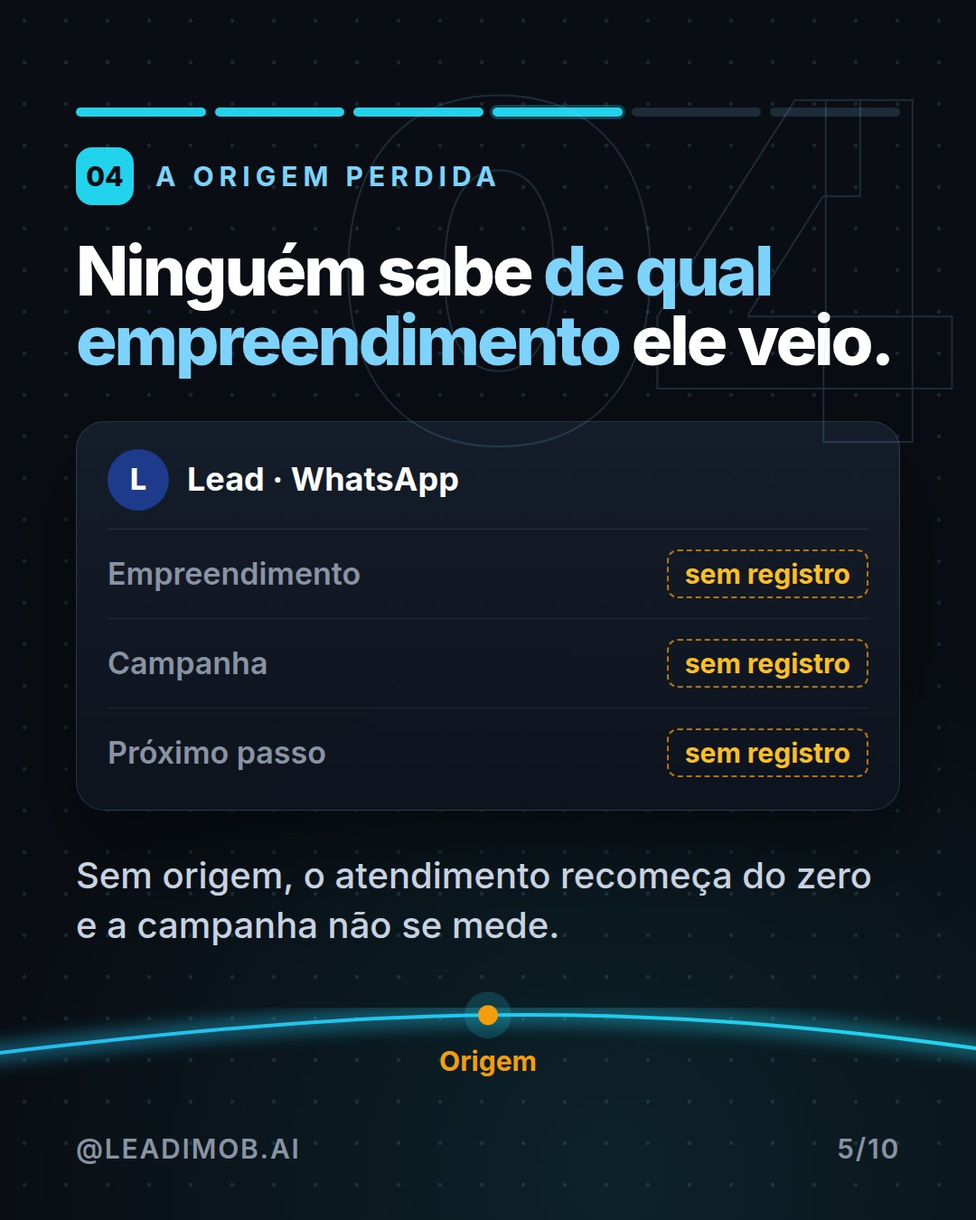
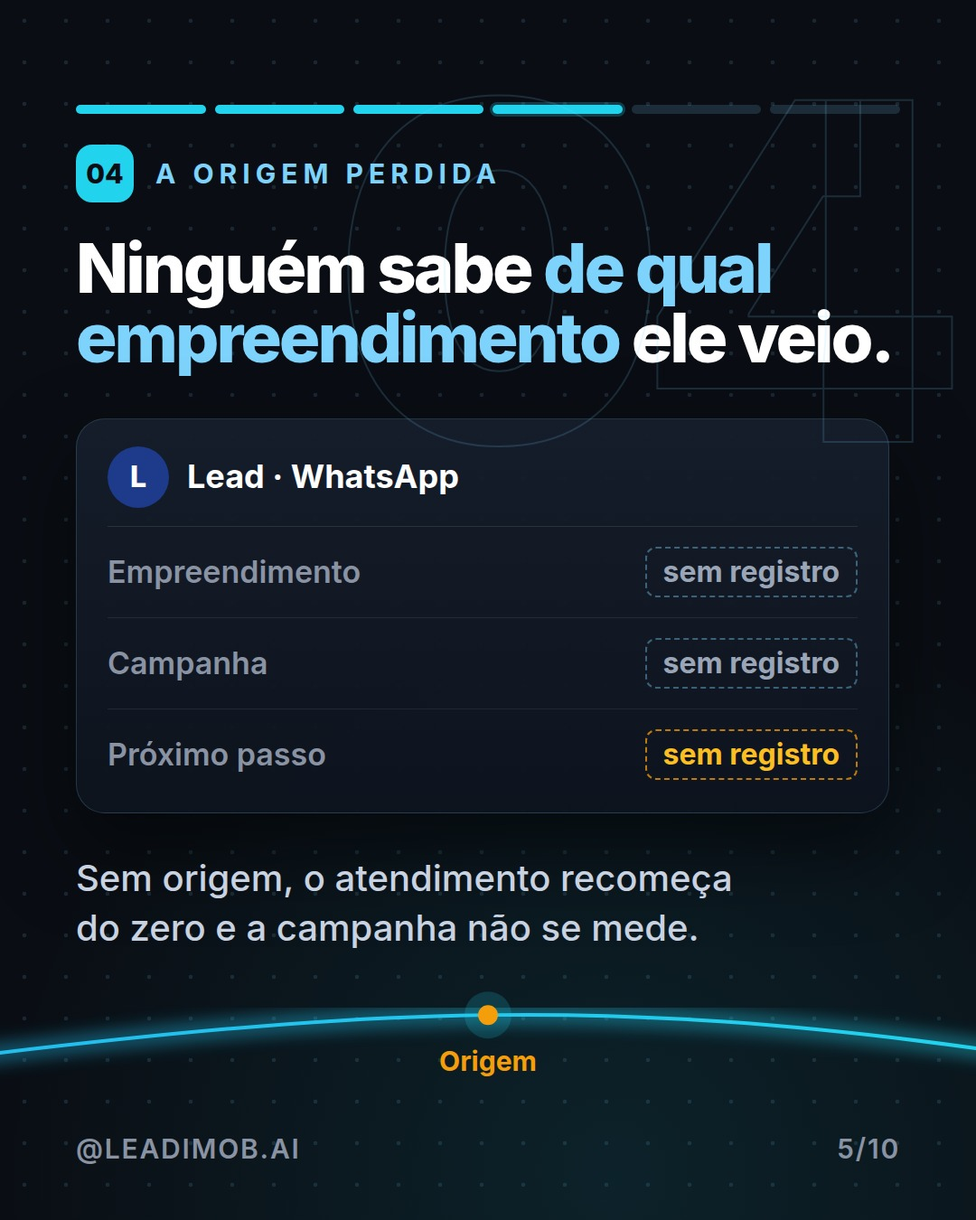
06/10: carrossel rodada 3 (parcial)
Claude-Session: https://claude.ai/code/session_018r7VijXCsT7Rsbfxa2wopL

diff --git a/instagram/2026-10-06/src/c1-index.html b/instagram/2026-10-06/src/c1-index.html
@@ -16,8 +16,8 @@ body{background:#0A0E14;width:10800px;height:1350px;overflow:hidden;font-family:
 .abs{position:absolute}
 .kick{font:700 30px/1 IN;letter-spacing:.2em;text-transform:uppercase;color:#7DD3FC}
 .h1{font:900 128px/0.96 IN;letter-spacing:-.055em}
-.h2{font:800 76px/1.02 IN;letter-spacing:-.04em}
-.p{font:500 40px/1.38 IN;color:#C9D2E0}
+.h2{text-wrap:balance;font:800 76px/1.02 IN;letter-spacing:-.04em}
+.p{text-wrap:balance;font:500 40px/1.38 IN;color:#C9D2E0}
 .ghost{position:absolute;font:900 520px/1 IN;letter-spacing:-.06em;color:transparent;-webkit-text-stroke:2px rgba(125,211,252,.16);right:40px;top:40px}
 .foot{position:absolute;left:84px;right:84px;bottom:64px;display:flex;justify-content:space-between;align-items:center;font:600 30px/1 IN;color:#8A93A3;letter-spacing:.06em}
 .card{background:linear-gradient(180deg,rgba(22,30,44,.96),rgba(14,20,30,.96));border:1px solid rgba(125,211,252,.18);border-radius:32px;box-shadow:0 40px 90px rgba(0,0,0,.5)}
@@ -39,19 +39,19 @@ body{background:#0A0E14;width:10800px;height:1350px;overflow:hidden;font-family:
 .prog{display:flex;gap:10px;margin-bottom:34px}
 .prog i{display:block;height:10px;flex:1;border-radius:6px;background:rgba(125,211,252,.16)}
 .prog i.on{background:#22D3EE}.prog i.cur{background:#22D3EE;box-shadow:0 0 0 3px rgba(34,211,238,.25)}
-.row{display:flex;justify-content:space-between;align-items:center;font:600 34px/1 IN;padding:22px 0;border-bottom:1px solid rgba(255,255,255,.08)}
+.row{display:flex;justify-content:space-between;align-items:center;font:600 36px/1 IN;padding:22px 0;border-bottom:1px solid rgba(255,255,255,.08)}
 .row:last-child{border-bottom:0}.row span:first-child{color:#C9D2E0}
 .chk{display:flex;align-items:center;gap:22px;font:700 36px/1.2 IN;padding:17px 0;color:#E2E8F0}
 .chk b{flex:none;width:44px;height:44px;border-radius:12px;border:3px solid #22D3EE;display:flex;align-items:center;justify-content:center;color:#22D3EE;font:900 30px/1 IN}
 .col{flex:1;border-radius:28px;padding:26px 24px;background:#121a27;border:1px solid rgba(125,211,252,.16)}
 .col.ok{border-color:rgba(52,211,153,.55)}.col.bad{border-color:rgba(245,158,11,.55)}
-.lab{font:800 30px/1 IN;letter-spacing:.08em;text-transform:uppercase;margin-bottom:22px}
-.sm{border-radius:22px;padding:18px 22px 10px;font:500 32px/1.3 IN}
+.lab{font:800 32px/1 IN;letter-spacing:.08em;text-transform:uppercase;margin-bottom:22px}
+.sm{border-radius:22px;padding:18px 22px 14px;font:500 34px/1.3 IN}
 .ex{font:700 30px/1 IN;letter-spacing:.14em;text-transform:uppercase;color:#8A93A3;margin-bottom:18px}
-.tag{display:inline-block;font:700 30px/1 IN;padding:10px 18px;border-radius:12px}
+.tag{display:inline-block;font:700 32px/1 IN;padding:10px 18px;border-radius:12px}
 .fld{display:flex;justify-content:space-between;align-items:center;font:600 34px/1 IN;padding:22px 0;border-bottom:1px solid rgba(255,255,255,.08)}
 .fld:last-child{border-bottom:0}
-.dash{border:2px dashed rgba(245,158,11,.7);color:#FBBF24;border-radius:12px;padding:10px 18px;font:700 30px/1 IN}
+.dash{border:2px dashed rgba(125,211,252,.4);color:#9AA6B8;border-radius:12px;padding:10px 18px;font:700 32px/1 IN}.dash.a{border-color:rgba(245,158,11,.75);color:#FBBF24}
 .st{display:flex;align-items:center;gap:26px;padding:12px 0}.st+.st{border-top:1px solid rgba(255,255,255,.08)}
 .st .ic{flex:none;width:60px;height:60px;border-radius:20px;background:rgba(52,211,153,.14);border:2px solid rgba(52,211,153,.7);color:#6EE7B7;display:flex;align-items:center;justify-content:center;font:900 36px/1 IN}
 .st div:last-child{font:700 38px/1.2 IN}
@@ -72,9 +72,13 @@ body{background:#0A0E14;width:10800px;height:1350px;overflow:hidden;font-family:
 <!-- 1 -->
 <div class="sl" style="left:0">
  <div class="kick">Lançamento · salve este post</div>
- <div class="h1" style="margin-top:56px">6 pontos<br>onde o lead<br><span class="hl">esfria</span>.</div>
- <div class="p" style="margin-top:44px;font-size:44px;color:#E2E8F0">No lançamento, a demanda chega junta. A atenção, não.</div>
- <div style="margin-top:70px;display:flex;gap:14px;align-items:center"><span class="chip cy" style="font-size:30px;padding:14px 22px">Quente</span><span style="width:60px;height:4px;background:linear-gradient(90deg,#22D3EE,#F59E0B)"></span><span class="chip amb" style="font-size:30px;padding:14px 22px">Frio</span></div>
+ <div class="h1" style="margin-top:50px">6 pontos<br>onde o lead<br><span class="hl">esfria</span>.</div>
+ <div class="p" style="margin-top:36px;font-size:42px;color:#E2E8F0">A demanda chega junta. A atenção, não.</div>
+ <div class="card" style="margin-top:50px;padding:26px 30px;background:#0B141A">
+  <div style="display:flex;align-items:center;gap:16px;margin-bottom:18px"><span style="width:14px;height:14px;border-radius:50%;background:#34D399"></span><span style="font:700 30px/1 IN;color:#8A93A3;letter-spacing:.08em">LEAD · WHATSAPP</span></div>
+  <div class="bub bin" style="max-width:100%">Vi o lançamento agora. Ainda tem unidade?<div class="bt">22:41</div></div>
+  <div style="margin-top:16px;font:700 32px/1 IN;color:#FBBF24">● sem resposta</div>
+ </div>
  <div class="foot"><span>@LEADIMOB.AI</span><span style="color:#7DD3FC">ARRASTE →</span></div>
 </div>
 <div class="sl" style="left:1080px"><div class="ghost">01</div>
@@ -97,8 +101,8 @@ body{background:#0A0E14;width:10800px;height:1350px;overflow:hidden;font-family:
  <div style="margin-top:46px"><div class="ex">Exemplo de mensagem</div>
  <div class="bub bin" style="max-width:100%">A de dois dormitórios no andar alto ainda está disponível?</div>
  <div style="display:flex;gap:18px;margin-top:22px">
-  <div class="col bad" style="padding:20px"><div class="lab" style="color:#FBBF24;font-size:30px;margin-bottom:14px">Esfria</div><div style="font:500 32px/1.3 IN">"Vou verificar com a equipe e retorno."</div></div>
-  <div class="col ok" style="padding:20px"><div class="lab" style="color:#6EE7B7;font-size:30px;margin-bottom:14px">Avança</div><div style="font:500 32px/1.3 IN">"Está disponível. Quer visitar o decorado?"</div></div>
+  <div class="col bad" style="padding:20px"><div class="lab" style="color:#FBBF24;font-size:32px;margin-bottom:14px">Esfria</div><div style="font:500 34px/1.3 IN">"Vou verificar com a equipe e retorno."</div></div>
+  <div class="col ok" style="padding:20px"><div class="lab" style="color:#6EE7B7;font-size:32px;margin-bottom:14px">Avança</div><div style="font:500 34px/1.3 IN">"Está disponível. Quer visitar o decorado?"</div></div>
  </div></div>
  <div class="p" style="margin-top:44px">Quem responde na hora com a informação certa fica com a conversa.</div>
  <div class="foot"><span>@LEADIMOB.AI</span><span>3/10</span></div>
@@ -106,18 +110,18 @@ body{background:#0A0E14;width:10800px;height:1350px;overflow:hidden;font-family:
 <div class="sl" style="left:3240px"><div class="ghost">03</div>
  <div class="prog"><i class="on"></i><i class="on"></i><i class="cur"></i><i class=""></i><i class=""></i><i class=""></i></div><div class="ttl"><div class="num">03</div><div class="kick">A tabela desatualizada</div></div>
  <div class="h2" style="">A tabela do cliente e a <span class="hl">tabela real</span> não batem.</div>
- <div style="margin-top:50px;display:flex;gap:18px"><div class="col" style="border-color:#7DD3FC"><div class="lab" style="color:#7DD3FC;font-size:30px;margin-bottom:8px">Planilha de ontem</div><div class="row" style="font-size:32px;padding:18px 0"><span>Tipo A</span><span class="tag" style="background:rgba(52,211,153,.14);color:#6EE7B7">Livre</span></div><div class="row" style="font-size:32px;padding:18px 0"><span>Tipo B</span><span class="tag" style="background:rgba(52,211,153,.14);color:#6EE7B7">Livre</span></div><div class="row" style="font-size:32px;padding:18px 0"><span>Cobertura</span><span class="tag" style="background:rgba(52,211,153,.14);color:#6EE7B7">Livre</span></div></div><div class="col" style="border-color:#F59E0B"><div class="lab" style="color:#F59E0B;font-size:30px;margin-bottom:8px">Situação hoje</div><div class="row" style="font-size:32px;padding:18px 0"><span>Tipo A</span><span class="tag" style="background:rgba(52,211,153,.14);color:#6EE7B7">Livre</span></div><div class="row" style="font-size:32px;padding:18px 0"><span>Tipo B</span><span class="tag" style="background:rgba(245,158,11,.14);color:#FBBF24">Reservada</span></div><div class="row" style="font-size:32px;padding:18px 0"><span>Cobertura</span><span class="tag" style="background:rgba(245,158,11,.14);color:#FBBF24">Vendida</span></div></div></div>
+ <div style="margin-top:50px;display:flex;gap:18px"><div class="col" style="border-color:#7DD3FC"><div class="lab" style="color:#7DD3FC;font-size:30px;margin-bottom:8px">Planilha de ontem</div><div class="row" style="font-size:34px;padding:18px 0"><span>Tipo A</span><span class="tag" style="background:rgba(52,211,153,.14);color:#6EE7B7">Livre</span></div><div class="row" style="font-size:34px;padding:18px 0"><span>Tipo B</span><span class="tag" style="background:rgba(52,211,153,.14);color:#6EE7B7">Livre</span></div><div class="row" style="font-size:34px;padding:18px 0"><span>Cobertura</span><span class="tag" style="background:rgba(52,211,153,.14);color:#6EE7B7">Livre</span></div></div><div class="col" style="border-color:#F59E0B"><div class="lab" style="color:#F59E0B;font-size:30px;margin-bottom:8px">Situação hoje</div><div class="row" style="font-size:34px;padding:18px 0"><span>Tipo A</span><span class="tag" style="background:rgba(52,211,153,.14);color:#6EE7B7">Livre</span></div><div class="row" style="font-size:34px;padding:18px 0"><span>Tipo B</span><span class="tag" style="background:rgba(245,158,11,.14);color:#FBBF24">Reservada</span></div><div class="row" style="font-size:34px;padding:18px 0"><span>Cobertura</span><span class="tag" style="background:rgba(245,158,11,.14);color:#FBBF24">Vendida</span></div></div></div>
  <div class="p" style="margin-top:44px">Oferecer o que já saiu custa a confiança do lead.</div>
  <div class="foot"><span>@LEADIMOB.AI</span><span>4/10</span></div>
 </div>
 <div class="sl" style="left:4320px"><div class="ghost">04</div>
  <div class="prog"><i class="on"></i><i class="on"></i><i class="on"></i><i class="cur"></i><i class=""></i><i class=""></i></div><div class="ttl"><div class="num">04</div><div class="kick">A origem perdida</div></div>
  <div class="h2" style="">Ninguém sabe <span class="hl">de qual empreendimento</span> ele veio.</div>
- <div class="card" style="margin-top:50px;padding:10px 34px 14px">
+ <div class="card" style="margin-top:50px;padding:10px 34px 14px;margin-right:12px">
   <div style="display:flex;align-items:center;gap:20px;padding:20px 0;border-bottom:1px solid rgba(255,255,255,.1)"><div style="width:68px;height:68px;border-radius:50%;background:#1E3A8A;display:flex;align-items:center;justify-content:center;font:800 32px IN">L</div><div style="font:700 36px/1.1 IN">Lead · WhatsApp</div></div>
   <div class="fld"><span style="color:#8A93A3">Empreendimento</span><span class="dash">sem registro</span></div>
   <div class="fld"><span style="color:#8A93A3">Campanha</span><span class="dash">sem registro</span></div>
-  <div class="fld"><span style="color:#8A93A3">Próximo passo</span><span class="dash">sem registro</span></div>
+  <div class="fld"><span style="color:#8A93A3">Próximo passo</span><span class="dash a">sem registro</span></div>
  </div>
  <div class="p" style="margin-top:44px">Sem origem, o atendimento recomeça do zero e a campanha não se mede.</div>
  <div class="foot"><span>@LEADIMOB.AI</span><span>5/10</span></div>
@@ -137,10 +141,10 @@ body{background:#0A0E14;width:10800px;height:1350px;overflow:hidden;font-family:
  <div class="h2" style="">Visitou, saiu animado e <span class="hl">ninguém voltou a falar</span>.</div>
  <div style="margin-top:56px;position:relative;height:300px">
  <div style="position:absolute;left:30px;right:30px;top:60px;height:6px;background:linear-gradient(90deg,#22D3EE 0 62%,rgba(245,158,11,.0) 62%);border-bottom:0"></div>
- <div style="position:absolute;left:62%;right:30px;top:61px;border-top:4px dashed rgba(245,158,11,.7)"></div>
- <div style="position:absolute;left:0;top:34px;display:flex;flex-direction:column;align-items:flex-start;width:230px"><span style="width:58px;height:58px;border-radius:50%;background:#22D3EE;display:block"></span><span style="font:700 34px/1.2 IN;margin-top:20px">Visita</span><span style="font:500 30px/1.2 IN;color:#8A93A3;margin-top:6px">no plantão</span></div>
- <div style="position:absolute;left:310px;top:34px;width:260px"><span style="width:58px;height:58px;border-radius:50%;background:#34D399;display:block"></span><span style="font:700 34px/1.2 IN;margin-top:20px;display:block">Retorno</span><span style="font:500 30px/1.2 IN;color:#8A93A3;margin-top:6px;display:block">no dia seguinte</span></div>
- <div style="position:absolute;right:0;top:34px;width:260px;text-align:right;display:flex;flex-direction:column;align-items:flex-end"><span style="width:58px;height:58px;border-radius:50%;border:4px dashed #F59E0B;display:block"></span><span style="font:700 34px/1.2 IN;margin-top:20px;color:#FBBF24">Novidade</span><span style="font:500 30px/1.2 IN;color:#8A93A3;margin-top:6px">ninguém enviou</span></div>
+ <div style="position:absolute;left:62%;right:30px;top:61px;border-top:4px dashed rgba(125,211,252,.4)"></div>
+ <div style="position:absolute;left:0;top:34px;display:flex;flex-direction:column;align-items:flex-start;width:230px"><span style="width:58px;height:58px;border-radius:50%;background:#22D3EE;display:block"></span><span style="font:700 36px/1.2 IN;margin-top:20px">Visita</span><span style="font:500 32px/1.2 IN;color:#8A93A3;margin-top:6px">no plantão</span></div>
+ <div style="position:absolute;left:310px;top:34px;width:260px"><span style="width:58px;height:58px;border-radius:50%;background:#34D399;display:block"></span><span style="font:700 36px/1.2 IN;margin-top:20px;display:block">Retorno</span><span style="font:500 32px/1.2 IN;color:#8A93A3;margin-top:6px;display:block">no dia seguinte</span></div>
+ <div style="position:absolute;right:0;top:34px;width:260px;text-align:right;display:flex;flex-direction:column;align-items:flex-end"><span style="width:58px;height:58px;border-radius:50%;border:4px dashed #F59E0B;display:block"></span><span style="font:700 36px/1.2 IN;margin-top:20px">Novidade</span><span style="font:500 32px/1.2 IN;color:#8A93A3;margin-top:6px">ninguém enviou</span></div>
 </div>
  <div class="p" style="margin-top:44px">Follow-up que depende de memória não acontece.</div>
  <div class="foot"><span>@LEADIMOB.AI</span><span>7/10</span></div>
@@ -149,36 +153,34 @@ body{background:#0A0E14;width:10800px;height:1350px;overflow:hidden;font-family:
 <div class="sl" style="left:7560px">
  <div class="kick">Auditoria do seu lançamento</div>
  <div class="h2" style="margin-top:34px">Marque o que o <span class="hl">seu</span> lançamento já faz.</div>
- <div class="card" style="margin-top:50px;padding:20px 34px">
-  <div class="chk"><b>✓</b>Responde fora do horário do plantão</div>
-  <div class="chk"><b>✓</b>Responde unidade com a tabela vigente</div>
-  <div class="chk"><b>✓</b>Mantém a tabela atualizada</div>
-  <div class="chk"><b>✓</b>Registra o empreendimento de origem</div>
-  <div class="chk"><b>✓</b>Agenda dia e hora no plantão</div>
-  <div class="chk"><b>✓</b>Faz follow-up depois da visita</div>
+ <div style="margin-top:62px;position:relative">
+  <div style="position:absolute;left:50%;top:-26px;margin-left:-90px;width:180px;height:52px;border-radius:14px;background:#22D3EE;z-index:2"></div>
+  <div style="border-radius:28px;background:#F3F7FB;padding:44px 34px 14px;box-shadow:0 40px 90px rgba(0,0,0,.5)"><div style="display:flex;align-items:center;gap:20px;padding:15px 0;border-bottom:2px solid #D6E0EA;font:700 34px/1.2 IN;color:#0A0E14"><span style="flex:none;width:40px;height:40px;border-radius:10px;border:3px solid #0B5C73"></span>Responde fora do horário do plantão</div><div style="display:flex;align-items:center;gap:20px;padding:15px 0;border-bottom:2px solid #D6E0EA;font:700 34px/1.2 IN;color:#0A0E14"><span style="flex:none;width:40px;height:40px;border-radius:10px;border:3px solid #0B5C73"></span>Responde unidade com a tabela vigente</div><div style="display:flex;align-items:center;gap:20px;padding:15px 0;border-bottom:2px solid #D6E0EA;font:700 34px/1.2 IN;color:#0A0E14"><span style="flex:none;width:40px;height:40px;border-radius:10px;border:3px solid #0B5C73"></span>Mantém a tabela atualizada</div><div style="display:flex;align-items:center;gap:20px;padding:15px 0;border-bottom:2px solid #D6E0EA;font:700 34px/1.2 IN;color:#0A0E14"><span style="flex:none;width:40px;height:40px;border-radius:10px;border:3px solid #0B5C73"></span>Registra o empreendimento de origem</div><div style="display:flex;align-items:center;gap:20px;padding:15px 0;border-bottom:2px solid #D6E0EA;font:700 34px/1.2 IN;color:#0A0E14"><span style="flex:none;width:40px;height:40px;border-radius:10px;border:3px solid #0B5C73"></span>Agenda dia e hora no plantão</div><div style="display:flex;align-items:center;gap:20px;padding:15px 0;border-bottom:0;font:700 34px/1.2 IN;color:#0A0E14"><span style="flex:none;width:40px;height:40px;border-radius:10px;border:3px solid #0B5C73"></span>Faz follow-up depois da visita</div></div>
  </div>
  <div class="foot"><span>@LEADIMOB.AI</span><span>8/10</span></div>
 </div>
 <!-- 9 -->
 <div class="sl" style="left:8640px">
  <div class="kick">Onde a Leadimob entra</div>
- <div class="h2" style="margin-top:34px">Cada ponto, <span style="color:#6EE7B7">coberto</span> no WhatsApp.</div>
- <div class="card" style="margin-top:44px;padding:10px 34px">
-  <div class="st"><div class="ic">1</div><div>Atende na hora, também à noite</div></div><div class="st"><div class="ic">2</div><div>Sabe de qual empreendimento o lead veio</div></div><div class="st"><div class="ic">3</div><div>Consulta unidades e tabela vigente</div></div><div class="st"><div class="ic">4</div><div>Agenda a visita no plantão</div></div><div class="st"><div class="ic">5</div><div>Faz o follow-up depois da visita</div></div>
- </div>
- <div class="p" style="margin-top:36px;font-size:34px">É o modo incorporador da Leadimob, feito para lançamentos.</div>
+ <div class="h2" style="margin-top:34px">Os 6 pontos, <span style="color:#6EE7B7">cobertos</span> no WhatsApp.</div>
+ <div style="margin-top:44px;display:grid;grid-template-columns:1fr 1fr;gap:18px"><div style="border-radius:24px;background:#121a27;border:2px solid rgba(52,211,153,.5);padding:22px 24px;display:flex;align-items:center;gap:18px"><span style="flex:none;width:48px;height:48px;border-radius:14px;background:rgba(52,211,153,.16);color:#6EE7B7;display:flex;align-items:center;justify-content:center;font:900 30px/1 IN">✓</span><span style="font:700 34px/1.1 IN">Noite<br><span style="font-weight:500;color:#9AE6C8;font-size:32px">atendida</span></span></div><div style="border-radius:24px;background:#121a27;border:2px solid rgba(52,211,153,.5);padding:22px 24px;display:flex;align-items:center;gap:18px"><span style="flex:none;width:48px;height:48px;border-radius:14px;background:rgba(52,211,153,.16);color:#6EE7B7;display:flex;align-items:center;justify-content:center;font:900 30px/1 IN">✓</span><span style="font:700 34px/1.1 IN">Unidade<br><span style="font-weight:500;color:#9AE6C8;font-size:32px">consultada</span></span></div><div style="border-radius:24px;background:#121a27;border:2px solid rgba(52,211,153,.5);padding:22px 24px;display:flex;align-items:center;gap:18px"><span style="flex:none;width:48px;height:48px;border-radius:14px;background:rgba(52,211,153,.16);color:#6EE7B7;display:flex;align-items:center;justify-content:center;font:900 30px/1 IN">✓</span><span style="font:700 34px/1.1 IN">Tabela<br><span style="font-weight:500;color:#9AE6C8;font-size:32px">vigente</span></span></div><div style="border-radius:24px;background:#121a27;border:2px solid rgba(52,211,153,.5);padding:22px 24px;display:flex;align-items:center;gap:18px"><span style="flex:none;width:48px;height:48px;border-radius:14px;background:rgba(52,211,153,.16);color:#6EE7B7;display:flex;align-items:center;justify-content:center;font:900 30px/1 IN">✓</span><span style="font:700 34px/1.1 IN">Origem<br><span style="font-weight:500;color:#9AE6C8;font-size:32px">registrada</span></span></div><div style="border-radius:24px;background:#121a27;border:2px solid rgba(52,211,153,.5);padding:22px 24px;display:flex;align-items:center;gap:18px"><span style="flex:none;width:48px;height:48px;border-radius:14px;background:rgba(52,211,153,.16);color:#6EE7B7;display:flex;align-items:center;justify-content:center;font:900 30px/1 IN">✓</span><span style="font:700 34px/1.1 IN">Plantão<br><span style="font-weight:500;color:#9AE6C8;font-size:32px">agendado</span></span></div><div style="border-radius:24px;background:#121a27;border:2px solid rgba(52,211,153,.5);padding:22px 24px;display:flex;align-items:center;gap:18px"><span style="flex:none;width:48px;height:48px;border-radius:14px;background:rgba(52,211,153,.16);color:#6EE7B7;display:flex;align-items:center;justify-content:center;font:900 30px/1 IN">✓</span><span style="font:700 34px/1.1 IN">Retorno<br><span style="font-weight:500;color:#9AE6C8;font-size:32px">feito</span></span></div></div>
+ <div class="p" style="margin-top:40px;font-size:38px">Esse é o modo incorporador da Leadimob, feito para lançamentos.</div>
  <div class="foot"><span>@LEADIMOB.AI</span><span>9/10</span></div>
 </div>
 <!-- 10 CTA -->
 <div class="sl" style="left:9720px">
  <div class="kick">Faça o diagnóstico</div>
- <div class="h2" style="margin-top:50px;font-size:84px">Quer ver em qual dos 6 pontos o <span class="hl">seu</span> lead esfria?</div>
- <div style="margin-top:70px;height:136px;border-radius:68px;background:#141B28;border:2px solid rgba(125,211,252,.4);display:flex;align-items:center;padding:0 40px;gap:18px;font:600 46px IN">
+ <div class="h2" style="margin-top:40px;font-size:80px">Em qual dos 6 pontos o <span class="hl">seu</span> lead esfria?</div>
+ <div style="margin-top:46px;height:128px;border-radius:64px;background:#141B28;border:2px solid rgba(125,211,252,.45);box-shadow:0 0 0 8px rgba(34,211,238,.06),0 30px 70px rgba(0,0,0,.55);display:flex;align-items:center;padding:0 20px 0 40px;gap:16px;font:600 44px IN">
   <span style="color:#7C8799">Comente</span><span style="font-weight:900;letter-spacing:.02em">DIAGNÓSTICO</span>
   <span style="margin-left:auto;width:88px;height:88px;border-radius:50%;background:#2563EB;display:flex;align-items:center;justify-content:center"><svg width="42" height="42" viewBox="0 0 24 24"><path d="M3 12 L21 3 L14 21 L11 13 Z" fill="#fff"/></svg></span>
  </div>
- <div class="p" style="margin-top:36px">E receba o checklist Onde seus leads estão morrendo.</div>
- <div style="margin-top:90px;width:440px;height:130px;border-radius:28px;background:#F3F7FB;display:flex;align-items:center;justify-content:center"><img src="logo.png" style="width:360px"></div>
+ <div class="p" style="margin-top:30px;font-size:38px">e receba o checklist <b style="color:#fff">Onde seus leads estão morrendo</b>.</div>
+ <div style="margin-top:44px;display:flex;align-items:center;gap:24px">
+  <div style="width:300px;height:96px;border-radius:22px;background:#F3F7FB;display:flex;align-items:center;justify-content:center;box-shadow:0 20px 44px rgba(0,0,0,.5)"><img src="logo.png" style="width:240px"></div>
+  <div style="font:700 36px/1 IN;color:#7DD3FC">@leadimob.ai</div>
+ </div>
+ <div class="chip cy" style="margin-top:36px;font-size:32px;padding:20px 28px;white-space:normal;line-height:1.15">Solicite uma demonstração — link na bio</div>
  <div class="foot"><span>@LEADIMOB.AI</span><span>10/10</span></div>
 </div>
 </div>
@@ -186,7 +188,7 @@ body{background:#0A0E14;width:10800px;height:1350px;overflow:hidden;font-family:
 // station dots on the line at each slide center
 const p=document.getElementById('jp');const L=p.getTotalLength();let g='';
 for(let i=0;i<10;i++){const x=540+i*1080;let lo=0,hi=L;for(let k=0;k<40;k++){const m=(lo+hi)/2;if(p.getPointAtLength(m).x<x)lo=m;else hi=m}const pt=p.getPointAtLength(lo);
- const labs=['','Noite','Pergunta','Tabela','Origem','Agenda','Retorno','Auditoria','Solução',''];const col=i=>i>=1&&i<=6?'#F59E0B':i>=8&&i<=8?'#34D399':'#7DD3FC';
+ const labs=['','Plantão','Pergunta','Tabela','Origem','Agenda','Retorno','Auditoria','Solução',''];const col=i=>i>=1&&i<=6?'#F59E0B':i>=8&&i<=8?'#34D399':'#7DD3FC';
  g+=`<circle cx="${pt.x}" cy="${pt.y}" r="26" fill="rgba(34,211,238,.18)"/><circle cx="${pt.x}" cy="${pt.y}" r="11" fill="${col(i)}"/>`+(labs[i]?`<text x="${pt.x}" y="${pt.y+62}" text-anchor="middle" font-family="IN" font-weight="700" font-size="30" fill="${col(i)}">${labs[i]}</text>`:'')}
 document.getElementById('dots').innerHTML=g;
 window.ready=document.fonts.ready.then(()=>Promise.all(['400 20px IN','500 20px IN','700 20px IN','800 20px IN','900 20px IN'].map(f=>document.fonts.load(f))));

diff --git a/instagram/2026-10-06/carrossel/carrossel-editor.html b/instagram/2026-10-06/carrossel/carrossel-editor.html
@@ -312,7 +312,7 @@ input[type=range]{width:100%;accent-color:#6C5CE7;height:18px;cursor:pointer;}
     </div>
   </div>
 </div>
-<script id="deck-data" type="application/json">{"kit": "tech", "formato": "4:5", "paleta": {"bg": "#0A0E14", "fg": "#FFFFFF", "muted": "#8A93A3", "accent": "#22D3EE", "surface": "#141B28", "cream": "#F3F7FB"}, "handle": "@leadimob.ai", "slides": [{"tipo": "capa", "kicker": "LANÇAMENTO · SALVE ESTE POST", "titulo": "6 pontos onde o lead esfria.", "sub": "No lançamento, a demanda chega junta. A atenção, não."}, {"tipo": "passo", "titulo": "1 · Quando o plantão fecha, o interesse continua.", "corpo": "O lead que chama à noite não espera o plantão abrir.", "ghost": "01"}, {"tipo": "passo", "titulo": "2 · A pergunta é simples. A resposta demora.", "corpo": "Responder na hora com a informação certa mantém a conversa.", "ghost": "02"}, {"tipo": "passo", "titulo": "3 · A tabela do cliente e a tabela real não batem.", "corpo": "Oferecer o que já saiu custa a confiança do lead.", "ghost": "03"}, {"tipo": "passo", "titulo": "4 · Ninguém sabe de qual empreendimento ele veio.", "corpo": "Sem origem, o atendimento recomeça do zero e a campanha não se mede.", "ghost": "04"}, {"tipo": "passo", "titulo": "5 · \"Passo aí\" não é uma visita marcada.", "corpo": "Proponha dia e horário no plantão e deixe registrado.", "ghost": "05"}, {"tipo": "passo", "titulo": "6 · Visitou e ninguém voltou a falar.", "corpo": "Follow-up que depende de memória não acontece.", "ghost": "06"}, {"tipo": "lista", "titulo": "Auditoria do seu lançamento", "itens": ["Responde fora do horário do plantão", "Responde unidade com a tabela vigente", "Mantém a tabela atualizada", "Registra o empreendimento de origem", "Agenda dia e hora no plantão", "Faz follow-up depois da visita"]}, {"tipo": "passo", "titulo": "Cada ponto, coberto no WhatsApp.", "corpo": "Atende na hora, sabe de qual empreendimento o lead veio, consulta unidades e tabela vigente, agenda a visita no plantão e faz o follow-up. É o modo incorporador da Leadimob, feito para lançamentos."}, {"tipo": "cta", "titulo": "Quer ver em qual dos 6 pontos o seu lead esfria?", "acao": "Comente DIAGNÓSTICO", "sub": "E receba o checklist Onde seus leads estão morrendo."}]}</script>
+<script id="deck-data" type="application/json">{"kit": "tech", "formato": "4:5", "paleta": {"bg": "#0A0E14", "fg": "#FFFFFF", "muted": "#8A93A3", "accent": "#22D3EE", "surface": "#141B28", "cream": "#F3F7FB"}, "handle": "@leadimob.ai", "slides": [{"tipo": "capa", "kicker": "LANÇAMENTO · SALVE ESTE POST", "titulo": "6 pontos onde o lead esfria.", "sub": "A demanda chega junta. A atenção, não."}, {"tipo": "passo", "titulo": "1 · Quando o plantão fecha, o interesse continua.", "corpo": "O lead que chama à noite não espera o plantão abrir.", "ghost": "01"}, {"tipo": "passo", "titulo": "2 · A pergunta é simples. A resposta demora.", "corpo": "Responder na hora com a informação certa mantém a conversa.", "ghost": "02"}, {"tipo": "passo", "titulo": "3 · A tabela do cliente e a tabela real não batem.", "corpo": "Oferecer o que já saiu custa a confiança do lead.", "ghost": "03"}, {"tipo": "passo", "titulo": "4 · Ninguém sabe de qual empreendimento ele veio.", "corpo": "Sem origem, o atendimento recomeça do zero e a campanha não se mede.", "ghost": "04"}, {"tipo": "passo", "titulo": "5 · \"Passo aí\" não é uma visita marcada.", "corpo": "Proponha dia e horário no plantão e deixe registrado.", "ghost": "05"}, {"tipo": "passo", "titulo": "6 · Visitou e ninguém voltou a falar.", "corpo": "Follow-up que depende de memória não acontece.", "ghost": "06"}, {"tipo": "lista", "titulo": "Auditoria do seu lançamento", "itens": ["Responde fora do horário do plantão", "Responde unidade com a tabela vigente", "Mantém a tabela atualizada", "Registra o empreendimento de origem", "Agenda dia e hora no plantão", "Faz follow-up depois da visita"]}, {"tipo": "passo", "titulo": "Os 6 pontos, cobertos no WhatsApp.", "corpo": "Atende à noite, consulta unidade e tabela vigente, registra a origem, agenda o plantão e faz o retorno. Esse é o modo incorporador da Leadimob, feito para lançamentos."}, {"tipo": "cta", "titulo": "Em qual dos 6 pontos o seu lead esfria?", "acao": "Comente DIAGNÓSTICO", "sub": "E receba o checklist Onde seus leads estão morrendo. Solicite uma demonstração — link na bio."}]}</script>
 <script>
 const KITS = {
   "editorial":     {disp:"Anton", body:"Inter", mono:"JetBrains Mono", serif:"Instrument Serif",
